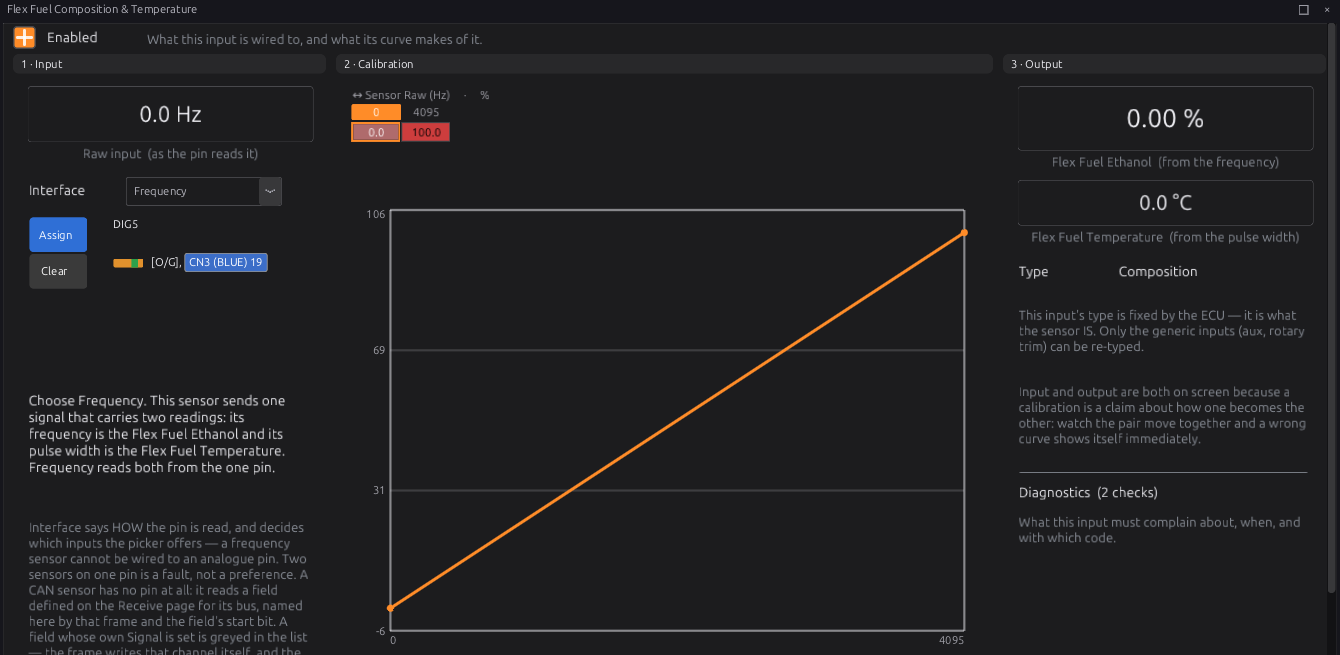
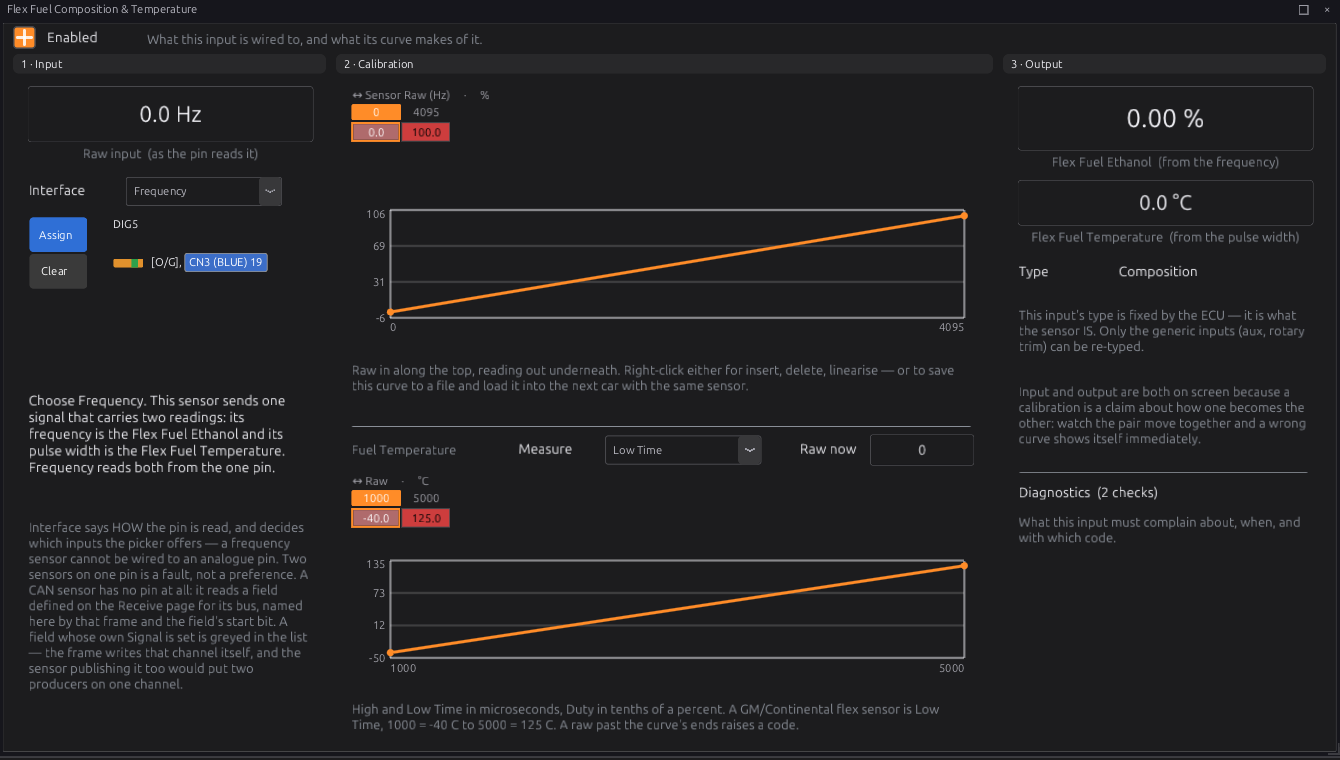
manual: flex fuel temperature page, CAN quiet with the key off and P1657

diff --git a/manual/docs/part2/13-can-bus.md b/manual/docs/part2/13-can-bus.md
@@ -82,6 +82,15 @@ stays valid only for its **Valid For** time; if the frame stops arriving, the ch
 instead of freezing at its last value.
 <!-- src: definition/ecu.schema.yaml (gc_frame, gc_field) -->
 
+**With the key off the ECU is quiet.** The rest of a car's bus sleeps with the ignition, so with the
+key off (the ECU kept awake by USB) nothing is transmitted, OBD replies included, and anything still
+queued is dropped. The ECU still listens. It starts transmitting again at key-on.
+
+The ECU raises **P1657** (CAN1) or **P1658** (CAN2) when it transmits and nothing on the bus completes
+a frame: no other device, or one at a different bit rate. It is judged only with the key on, and not in
+the first two seconds after key-on, while the other devices are still starting up.
+<!-- src: firmware/Can/CanBroker.cpp (set_key_on, send_frame, publish_stats); firmware/Can/CanBroker.h (KEY_ON_SETTLE_MS) -->
+
 ## Procedure
 
 :material-circle:{ .level-basic } Basic
@@ -189,6 +198,7 @@ so the reading goes through the sensor's own diagnostics:
 | Symptom | Likely cause | Check |
 |---|---|---|
 | Nothing received, TX errors climbing | Wrong bit rate; the other device off; H and L swapped | Every device's rate; power; swap H and L |
+| **P1657** / **P1658** with the key on | No other device on that bus, or one at a different bit rate | Last Error: stuff or form = bit rate, ACK = nobody there |
 | Errors that come and go | Termination wrong; a star wiring; long stubs | 60 Ω between H and L; the topology |
 | Meter reads 120 Ω | Far end not terminated | The far device's terminator switch |
 | Meter reads 40 Ω | Three terminators | A terminated device in the middle |

diff --git a/manual/docs/part3/17-sensors.md b/manual/docs/part3/17-sensors.md
@@ -391,7 +391,7 @@ reads. **+ Band** adds a position. Position 0 is rest, the one position that may
   <!-- src: definition/ecu.schema.yaml (composition outputs, Sensors aux_output); firmware/Platform/AcquireHal.h (acquire_pulse_part); firmware/Pipeline/Stages.h (cond_curve_ends) -->
 
 <figure markdown>
-  ![Flex Fuel Composition & Temperature: Frequency interface on DIG5, the calibration from Hz to %, and both readings](../img/studio/sensors-flex-page.png)
+  ![Flex Fuel Composition & Temperature: Frequency interface on DIG5, the calibration from Hz to %, the Fuel Temperature section (Measure Low Time, Raw now, the 1000–5000 µs to −40–125 °C curve), and both readings](../img/studio/sensors-flex-page.png)
   <figcaption>Figure 17.15 — Flex fuel. The default calibration shown is a placeholder.</figcaption>
 </figure>
 
